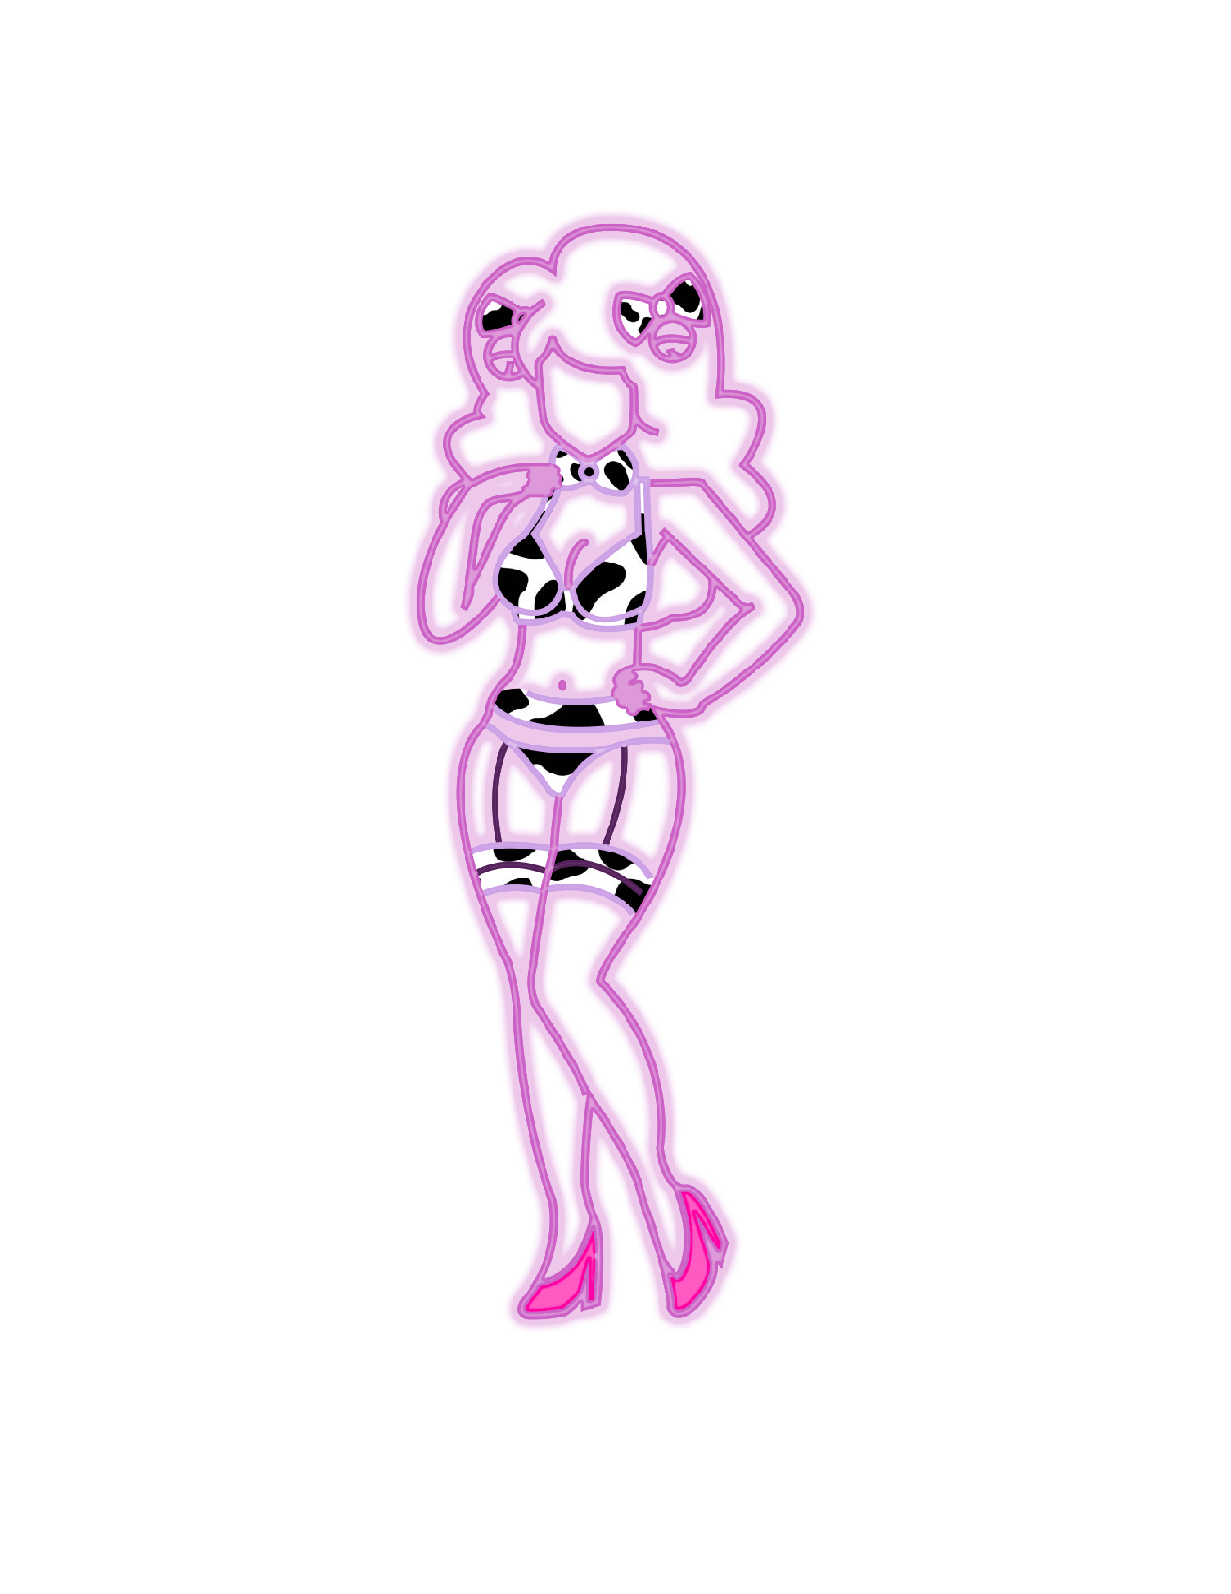
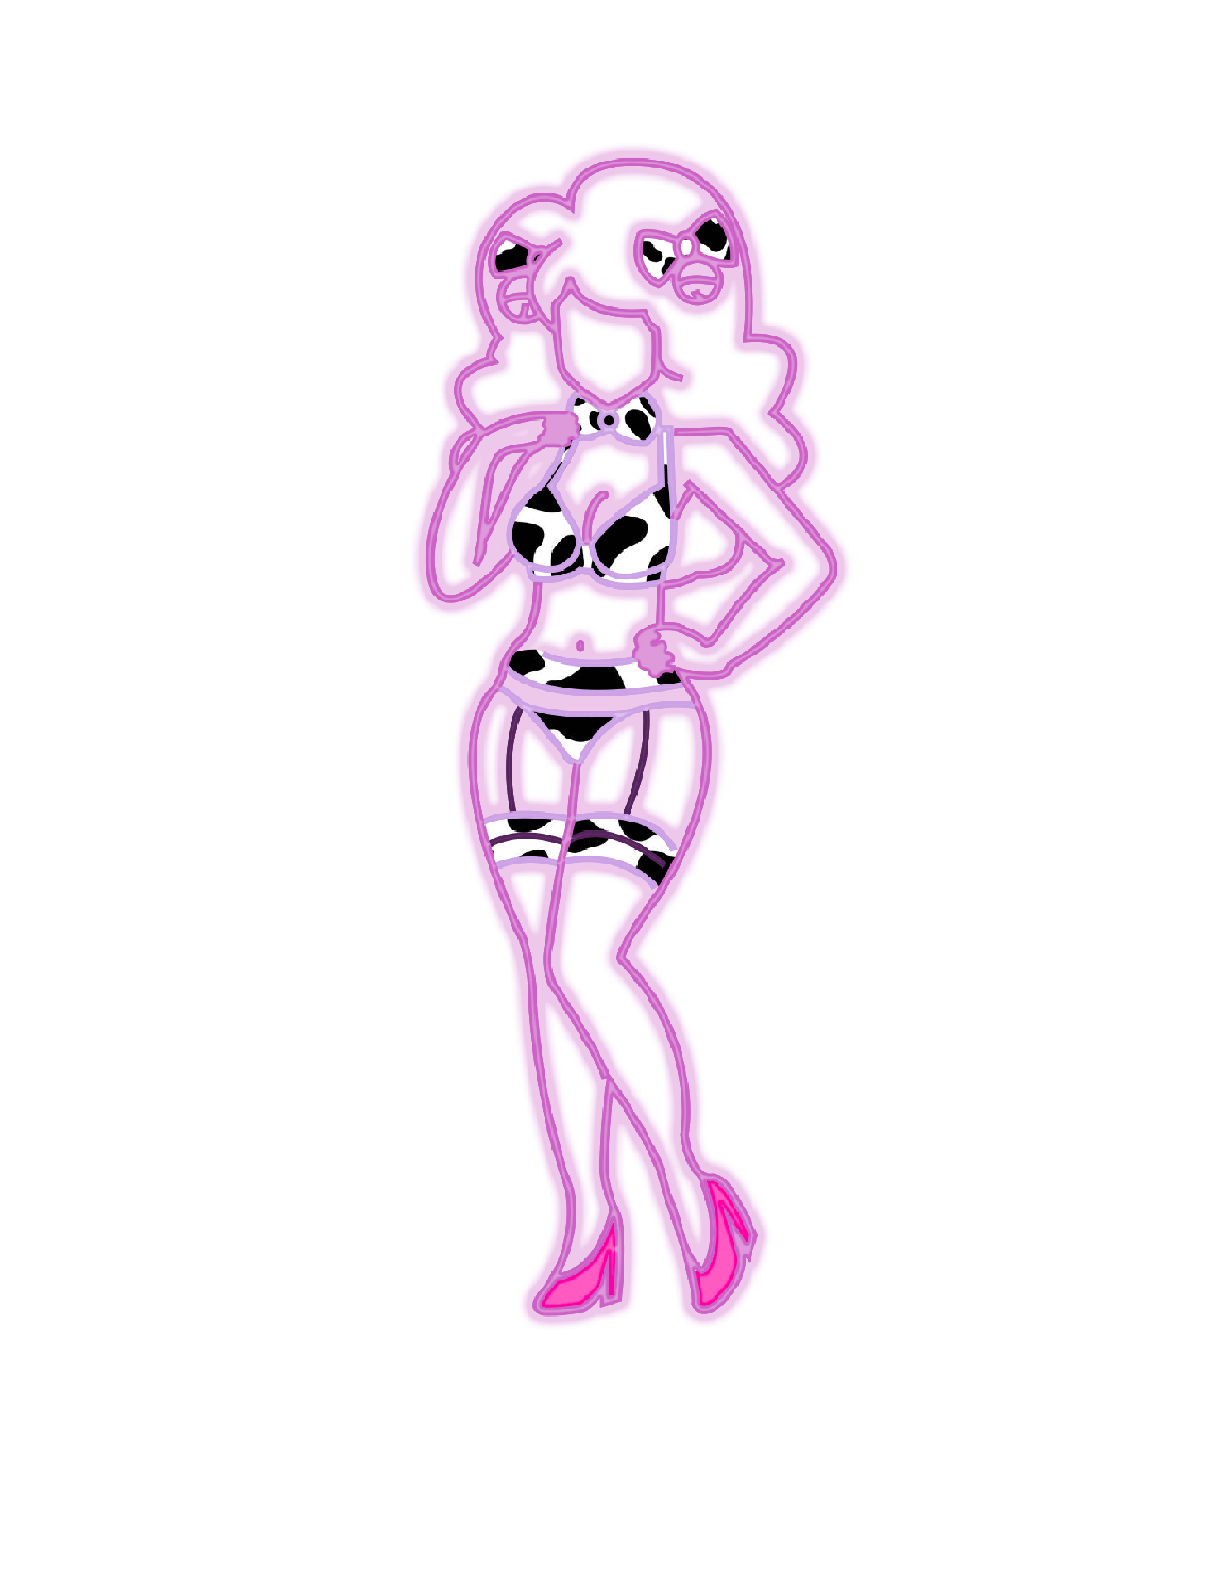
Customize AI dialog: drop duplicate AI Brain controls; new avatar7 art
The Customize AI Companion dialog used to duplicate the provider toggle,
Ollama model name, Ollama host URL, and AI Effect Permissions sections
that already live in the AI Brain panel on the Companion tab. Removed
all of those and the corresponding load/save logic + handlers
(~240 lines). The dialog is now personality-only: prompts, knowledge
base, output rules, and global knowledge links.

Default Ollama model name updated from "bambi-model-v7-cow" (a
hypothetical custom model nobody has) to "qwen3.5:latest" so the field
defaults to something the user is likely to actually have pulled.

Resources/avatar7_pose*.png: replaced art for the Bambi Cow avatar set.

Changed region(s): [[0.3087, 0.0922, 0.71, 0.83]]

diff --git a/ConditioningControlPanel/CompanionPromptEditorDialog.xaml b/ConditioningControlPanel/CompanionPromptEditorDialog.xaml
@@ -104,14 +104,6 @@
                                Foreground="#606060" FontSize="11"
                                VerticalAlignment="Center" Margin="10,0,0,0"/>
                 </StackPanel>
-                <StackPanel Orientation="Horizontal" Margin="0,6,0,0">
-                    <CheckBox x:Name="ChkUseLocal" Content="{loc:Str btn_enable_local_AI_prompts}"
-                              Foreground="White" VerticalContentAlignment="Center"
-                              Checked="ChkUseLocal_Changed" Unchecked="ChkUseLocal_Changed"/>
-                    <TextBlock Text="{loc:Str label_check_to_use_local_AI}"
-                               Foreground="#606060" FontSize="11"
-                               VerticalAlignment="Center" Margin="10,0,0,0"/>
-                </StackPanel>
             </StackPanel>
         </Border>
 
@@ -119,102 +111,8 @@
         <ScrollViewer Grid.Row="1" VerticalScrollBarVisibility="Auto" Padding="20">
             <StackPanel x:Name="ContentPanel">
 
-                <!-- Section 0: Local AI Provider (Ollama) — visible only when ChkUseLocal is checked -->
-                <StackPanel x:Name="LocalPanel" Visibility="Collapsed" Margin="0,0,0,15">
-                    <Expander IsExpanded="True">
-                        <Expander.Header>
-                            <TextBlock Text="{loc:Str label_ai_model_name}" Style="{StaticResource SectionHeader}"/>
-                        </Expander.Header>
-                        <StackPanel Margin="0,10,0,0">
-                            <TextBlock Style="{StaticResource SectionDescription}"
-                                       Text="{loc:Str label_ai_model_name_description}"/>
-                            <Grid>
-                                <Grid.ColumnDefinitions>
-                                    <ColumnDefinition Width="*"/>
-                                    <ColumnDefinition Width="Auto"/>
-                                    <ColumnDefinition Width="Auto"/>
-                                </Grid.ColumnDefinitions>
-                                <ComboBox x:Name="CmbAiModel" Grid.Column="0" IsEditable="True"
-                                          Height="32" VerticalContentAlignment="Center"
-                                          TextBoxBase.TextChanged="OnComboTextChanged"
-                                          SelectionChanged="OnComboTextChanged"/>
-                                <Button Grid.Column="1" Content="↻" ToolTip="{loc:Str btn_refresh_models_tooltip}"
-                                        Style="{StaticResource ResetButton}" VerticalAlignment="Top"
-                                        Margin="5,0,0,0" Click="RefreshAiModels_Click"/>
-                                <Button Grid.Column="2" Content="{loc:Str btn_reset}" Style="{StaticResource ResetButton}"
-                                        VerticalAlignment="Top" Margin="5,0,0,0"
-                                        Click="ResetAiModel_Click"/>
-                            </Grid>
-                        </StackPanel>
-                    </Expander>
-                    <Expander IsExpanded="False" Margin="0,8,0,0">
-                        <Expander.Header>
-                            <TextBlock Text="{loc:Str label_ai_ollama_host}" Style="{StaticResource SectionHeader}"/>
-                        </Expander.Header>
-                        <StackPanel Margin="0,10,0,0">
-                            <TextBlock Style="{StaticResource SectionDescription}"
-                                       Text="{loc:Str label_ai_ollama_host_description}"/>
-                            <Grid>
-                                <Grid.ColumnDefinitions>
-                                    <ColumnDefinition Width="*"/>
-                                    <ColumnDefinition Width="Auto"/>
-                                </Grid.ColumnDefinitions>
-                                <TextBox x:Name="TxtOllamaHost" Style="{StaticResource PromptTextBox}"
-                                         Height="32" TextChanged="OnTextChanged"/>
-                                <Button Grid.Column="1" Content="{loc:Str btn_reset}" Style="{StaticResource ResetButton}"
-                                        VerticalAlignment="Top" Margin="5,0,0,0"
-                                        Click="ResetOllamaHost_Click"/>
-                            </Grid>
-                        </StackPanel>
-                    </Expander>
-                </StackPanel>
-
-                <!-- AI Effect Permissions: master toggle + per-effect toggles + haptic ceiling -->
-                <Expander IsExpanded="False" Margin="0,0,0,15">
-                    <Expander.Header>
-                        <TextBlock Text="{loc:Str section_ai_effect_permissions}" Style="{StaticResource SectionHeader}"/>
-                    </Expander.Header>
-                    <StackPanel Margin="0,10,0,0">
-                        <TextBlock Style="{StaticResource SectionDescription}"
-                                   Text="{loc:Str label_ai_effect_permissions_description}"/>
-                        <CheckBox x:Name="ChkAllowAiEffects" Content="{loc:Str chk_allow_ai_effects_master}"
-                                  Foreground="#FF6B6B" FontWeight="SemiBold" Margin="0,4,0,8"
-                                  Checked="ChkAllowAiEffects_Changed" Unchecked="ChkAllowAiEffects_Changed"/>
-                        <Grid x:Name="AiEffectsGrid" Margin="20,0,0,0" IsEnabled="False" Opacity="0.5">
-                            <Grid.ColumnDefinitions>
-                                <ColumnDefinition Width="*"/>
-                                <ColumnDefinition Width="*"/>
-                                <ColumnDefinition Width="*"/>
-                            </Grid.ColumnDefinitions>
-                            <Grid.RowDefinitions>
-                                <RowDefinition Height="Auto"/>
-                                <RowDefinition Height="Auto"/>
-                                <RowDefinition Height="Auto"/>
-                                <RowDefinition Height="Auto"/>
-                            </Grid.RowDefinitions>
-                            <CheckBox x:Name="ChkAllowAiFlash" Grid.Row="0" Grid.Column="0" Content="{loc:Str chk_allow_ai_flash}" Foreground="White" Margin="0,2"/>
-                            <CheckBox x:Name="ChkAllowAiVideo" Grid.Row="0" Grid.Column="1" Content="{loc:Str chk_allow_ai_video}" Foreground="White" Margin="0,2"/>
-                            <CheckBox x:Name="ChkAllowAiAudio" Grid.Row="0" Grid.Column="2" Content="{loc:Str chk_allow_ai_audio}" Foreground="White" Margin="0,2"/>
-                            <CheckBox x:Name="ChkAllowAiBubbles" Grid.Row="1" Grid.Column="0" Content="{loc:Str chk_allow_ai_bubbles}" Foreground="White" Margin="0,2"/>
-                            <CheckBox x:Name="ChkAllowAiSubliminal" Grid.Row="1" Grid.Column="1" Content="{loc:Str chk_allow_ai_subliminal}" Foreground="White" Margin="0,2"/>
-                            <CheckBox x:Name="ChkAllowAiOverlay" Grid.Row="1" Grid.Column="2" Content="{loc:Str chk_allow_ai_overlay}" Foreground="White" Margin="0,2"/>
-                            <CheckBox x:Name="ChkAllowAiLockCard" Grid.Row="2" Grid.Column="0" Content="{loc:Str chk_allow_ai_lockcard}" Foreground="White" Margin="0,2"/>
-                            <CheckBox x:Name="ChkAllowAiBounce" Grid.Row="2" Grid.Column="1" Content="{loc:Str chk_allow_ai_bounce}" Foreground="White" Margin="0,2"/>
-                            <CheckBox x:Name="ChkAllowAiHaptic" Grid.Row="2" Grid.Column="2" Content="{loc:Str chk_allow_ai_haptic}" Foreground="White" Margin="0,2"/>
-                            <CheckBox x:Name="ChkAllowAiGetBackToMe" Grid.Row="3" Grid.Column="0" Content="{loc:Str chk_allow_ai_getbacktome}" Foreground="White" Margin="0,2"/>
-                        </Grid>
-                        <StackPanel x:Name="HapticIntensityPanel" Margin="20,10,0,0" IsEnabled="False" Opacity="0.5">
-                            <TextBlock Foreground="#A0A0A0" FontSize="11">
-                                <Run Text="{loc:Str label_ai_max_haptic_intensity}"/>
-                                <Run Text=" "/>
-                                <Run x:Name="LblHapticIntensityValue" Text="60%"/>
-                            </TextBlock>
-                            <Slider x:Name="SldMaxAiHapticIntensity" Minimum="0" Maximum="1" SmallChange="0.05" LargeChange="0.1"
-                                    TickFrequency="0.05" IsSnapToTickEnabled="True" Width="280" HorizontalAlignment="Left"
-                                    ValueChanged="SldMaxAiHapticIntensity_ValueChanged"/>
-                        </StackPanel>
-                    </StackPanel>
-                </Expander>
+                <!-- Personality / behavior only — provider, model, host, and effect
+                     permissions all live in the AI Brain panel on the Companion tab. -->
 
                 <!-- Section 1: Personality -->
                 <Expander IsExpanded="True" Margin="0,0,0,15">

diff --git a/ConditioningControlPanel/CompanionPromptEditorDialog.xaml.cs b/ConditioningControlPanel/CompanionPromptEditorDialog.xaml.cs
@@ -1,12 +1,10 @@
 using System;
 using System.Collections.ObjectModel;
 using System.Globalization;
-using System.Threading.Tasks;
 using System.Windows;
 using System.Windows.Data;
 using ConditioningControlPanel.Models;
 using ConditioningControlPanel.Localization;
-using ConditioningControlPanel.Services.AIService;
 
 namespace ConditioningControlPanel
 {
@@ -122,27 +120,8 @@ namespace ConditioningControlPanel
             var settings = App.Settings?.Current?.CompanionPrompt ?? new CompanionPromptSettings();
 
             ChkUseCustom.IsChecked = settings.UseCustomPrompt;
-            ChkUseLocal.IsChecked = settings.UseLocalAi;
-            CmbAiModel.Text = string.IsNullOrWhiteSpace(settings.AiModel)
-                ? _defaults.AiModel : settings.AiModel;
-            TxtOllamaHost.Text = string.IsNullOrWhiteSpace(settings.AiOllamaHost)
-                ? _defaults.AiOllamaHost : settings.AiOllamaHost;
-            // Populate the model dropdown asynchronously from Ollama's /api/tags.
-            _ = RefreshAiModelsAsync();
-
-            ChkAllowAiEffects.IsChecked = settings.AllowAiToControlEffects;
-            ChkAllowAiFlash.IsChecked = settings.AllowAiFlash;
-            ChkAllowAiVideo.IsChecked = settings.AllowAiVideo;
-            ChkAllowAiAudio.IsChecked = settings.AllowAiAudio;
-            ChkAllowAiBubbles.IsChecked = settings.AllowAiBubbles;
-            ChkAllowAiSubliminal.IsChecked = settings.AllowAiSubliminal;
-            ChkAllowAiOverlay.IsChecked = settings.AllowAiOverlay;
-            ChkAllowAiLockCard.IsChecked = settings.AllowAiLockCard;
-            ChkAllowAiBounce.IsChecked = settings.AllowAiBounce;
-            ChkAllowAiHaptic.IsChecked = settings.AllowAiHaptic;
-            ChkAllowAiGetBackToMe.IsChecked = settings.AllowAiGetBackToMe;
-            SldMaxAiHapticIntensity.Value = settings.MaxAiHapticIntensity;
-            LblHapticIntensityValue.Text = $"{(int)(settings.MaxAiHapticIntensity * 100)}%";
+            // Provider toggle, model name, host URL, and effect permissions all live
+            // in the AI Brain panel on the Companion tab — this dialog is personality-only.
 
             // Load values, falling back to defaults if empty
             TxtPersonality.Text = string.IsNullOrWhiteSpace(settings.Personality)
@@ -168,21 +147,8 @@ namespace ConditioningControlPanel
 
             var settings = App.Settings.Current.CompanionPrompt;
             settings.UseCustomPrompt = ChkUseCustom.IsChecked == true;
-            settings.UseLocalAi = ChkUseLocal.IsChecked == true;
-            settings.AiModel = string.IsNullOrWhiteSpace(CmbAiModel.Text) ? _defaults.AiModel : CmbAiModel.Text.Trim();
-            settings.AiOllamaHost = string.IsNullOrWhiteSpace(TxtOllamaHost.Text) ? _defaults.AiOllamaHost : TxtOllamaHost.Text.Trim();
-            settings.AllowAiToControlEffects = ChkAllowAiEffects.IsChecked == true;
-            settings.AllowAiFlash = ChkAllowAiFlash.IsChecked == true;
-            settings.AllowAiVideo = ChkAllowAiVideo.IsChecked == true;
-            settings.AllowAiAudio = ChkAllowAiAudio.IsChecked == true;
-            settings.AllowAiBubbles = ChkAllowAiBubbles.IsChecked == true;
-            settings.AllowAiSubliminal = ChkAllowAiSubliminal.IsChecked == true;
-            settings.AllowAiOverlay = ChkAllowAiOverlay.IsChecked == true;
-            settings.AllowAiLockCard = ChkAllowAiLockCard.IsChecked == true;
-            settings.AllowAiBounce = ChkAllowAiBounce.IsChecked == true;
-            settings.AllowAiHaptic = ChkAllowAiHaptic.IsChecked == true;
-            settings.AllowAiGetBackToMe = ChkAllowAiGetBackToMe.IsChecked == true;
-            settings.MaxAiHapticIntensity = SldMaxAiHapticIntensity.Value;
+            // Provider/model/host/effect-permission settings are owned by the AI Brain
+            // panel; we only persist personality-related fields here.
             settings.Personality = TxtPersonality.Text;
             settings.ExplicitReaction = TxtExplicitReaction.Text;
             settings.SlutModePersonality = TxtSlutMode.Text;
@@ -202,107 +168,15 @@ namespace ConditioningControlPanel
 
         private void UpdateEnabledState()
         {
+            // Whole personality form is dimmed when the user is on default prompts.
             var isEnabled = ChkUseCustom.IsChecked == true;
             ContentPanel.IsEnabled = isEnabled;
             ContentPanel.Opacity = isEnabled ? 1.0 : 0.5;
-
-            if (LocalPanel != null)
-            {
-                LocalPanel.Visibility = ChkUseLocal.IsChecked == true ? Visibility.Visible : Visibility.Collapsed;
-            }
         }
 
         private void ChkUseCustom_Changed(object sender, RoutedEventArgs e)
         {
             UpdateEnabledState();
-            _hasUnsavedChanges = true;
-        }
-
-        private void ChkUseLocal_Changed(object sender, RoutedEventArgs e)
-        {
-            UpdateEnabledState();
-            _hasUnsavedChanges = true;
-        }
-
-        private void ResetAiModel_Click(object sender, RoutedEventArgs e)
-        {
-            CmbAiModel.Text = _defaults.AiModel;
-        }
-
-        private async void RefreshAiModels_Click(object sender, RoutedEventArgs e)
-        {
-            await RefreshAiModelsAsync();
-        }
-
-        private async Task RefreshAiModelsAsync()
-        {
-            // Use the host as currently typed (not the saved one), so the user can
-            // switch to a remote Ollama and refresh the list before saving.
-            var host = string.IsNullOrWhiteSpace(TxtOllamaHost?.Text) ? _defaults.AiOllamaHost : TxtOllamaHost.Text.Trim();
-            var current = CmbAiModel.Text;
-
-            var models = await LocalAiService.ListInstalledModelsAsync(host);
-
-            CmbAiModel.Items.Clear();
-            foreach (var name in models) CmbAiModel.Items.Add(name);
-
-            // Preserve whatever the user had typed/selected so we don't blow away their setting.
-            CmbAiModel.Text = current;
-        }
-
-        private void OnComboTextChanged(object? sender, EventArgs e)
-        {
-            _hasUnsavedChanges = true;
-        }
-
-        private void ResetOllamaHost_Click(object sender, RoutedEventArgs e)
-        {
-            TxtOllamaHost.Text = _defaults.AiOllamaHost;
-        }
-
-        // Tracks whether the current Checked event was caused by user interaction (so we
-        // can show the warning only on the first opt-in, not when restoring saved state).
-        private bool _aiEffectsLoadedOnce;
-
-        private void ChkAllowAiEffects_Changed(object sender, RoutedEventArgs e)
-        {
-            var on = ChkAllowAiEffects.IsChecked == true;
-
-            if (on && _aiEffectsLoadedOnce)
-            {
-                var result = MessageBox.Show(
-                    Loc.Get("dialog_ai_effects_first_time_warning"),
-                    Loc.Get("section_ai_effect_permissions"),
-                    MessageBoxButton.YesNo,
-                    MessageBoxImage.Warning);
-                if (result != MessageBoxResult.Yes)
-                {
-                    ChkAllowAiEffects.IsChecked = false;
-                    return;
-                }
-            }
-
-            if (AiEffectsGrid != null)
-            {
-                AiEffectsGrid.IsEnabled = on;
-                AiEffectsGrid.Opacity = on ? 1.0 : 0.5;
-            }
-            if (HapticIntensityPanel != null)
-            {
-                HapticIntensityPanel.IsEnabled = on;
-                HapticIntensityPanel.Opacity = on ? 1.0 : 0.5;
-            }
-
-            _aiEffectsLoadedOnce = true;
-            _hasUnsavedChanges = true;
-        }
-
-        private void SldMaxAiHapticIntensity_ValueChanged(object sender, System.Windows.RoutedPropertyChangedEventArgs<double> e)
-        {
-            if (LblHapticIntensityValue != null)
-            {
-                LblHapticIntensityValue.Text = $"{(int)(e.NewValue * 100)}%";
-            }
             _hasUnsavedChanges = true;
         }
 

diff --git a/ConditioningControlPanel/Models/CompanionPromptSettings.cs b/ConditioningControlPanel/Models/CompanionPromptSettings.cs
@@ -21,7 +21,7 @@ namespace ConditioningControlPanel.Models
         /// <summary>
         /// Name of the Ollama model to use when <see cref="UseLocalAi"/> is true.
         /// </summary>
-        public string AiModel { get; set; } = "bambi-model-v7-cow";
+        public string AiModel { get; set; } = "qwen3.5:latest";
 
         /// <summary>
         /// Base URL of the local Ollama HTTP server.
@@ -103,7 +103,7 @@ namespace ConditioningControlPanel.Models
             {
                 UseCustomPrompt = false,
                 UseLocalAi = false,
-                AiModel = "bambi-model-v7-cow",
+                AiModel = "qwen3.5:latest",
                 AiOllamaHost = "http://localhost:11434/",
                 AllowAiToControlEffects = false,
                 AllowAiFlash = false,

diff --git a/ConditioningControlPanel/Services/AIService/LocalAiService.cs b/ConditioningControlPanel/Services/AIService/LocalAiService.cs
@@ -21,7 +21,7 @@ namespace ConditioningControlPanel.Services.AIService
     public class LocalAiService : IAiService
     {
         private const string DefaultHost = "http://localhost:11434/";
-        private const string DefaultModel = "bambi-model-v7-cow";
+        private const string DefaultModel = "qwen3.5:latest";
 
         private readonly BambiSprite _bambiSprite;
         private readonly IAiResponseParser _parser;
